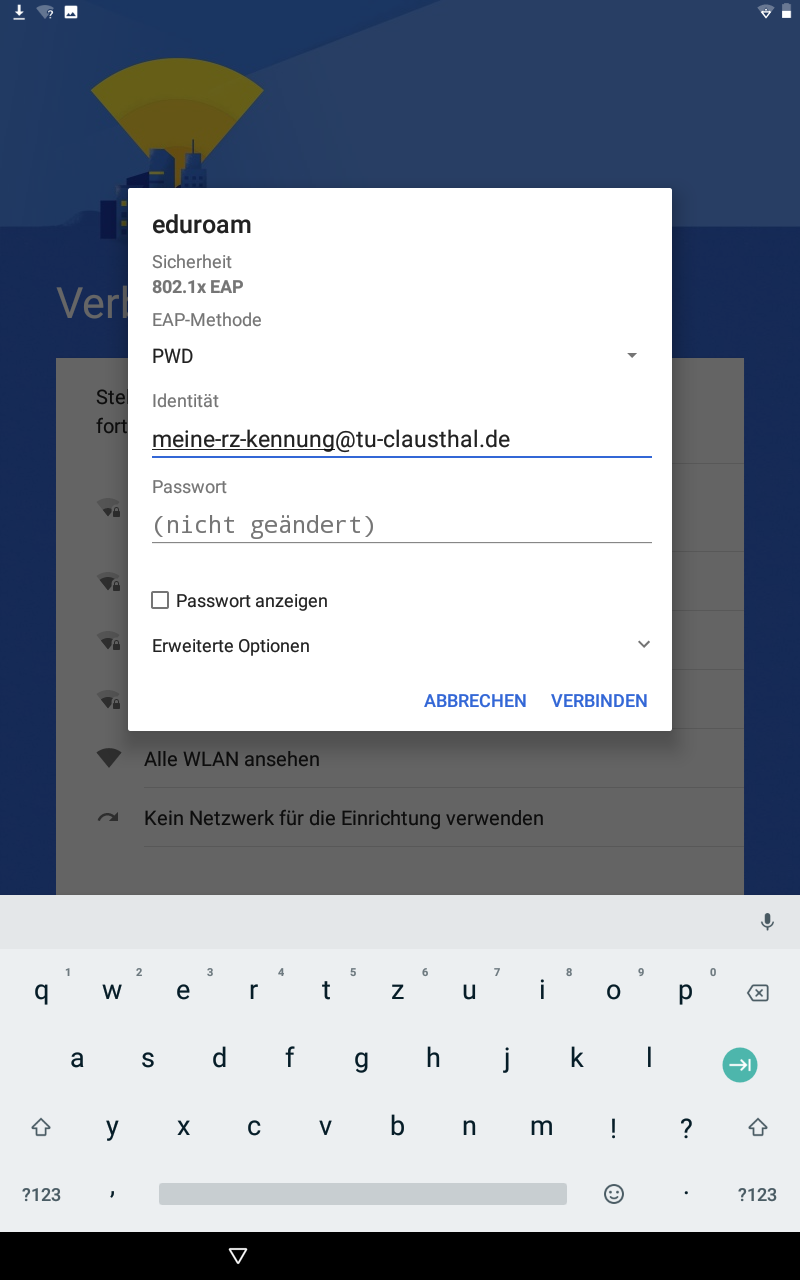
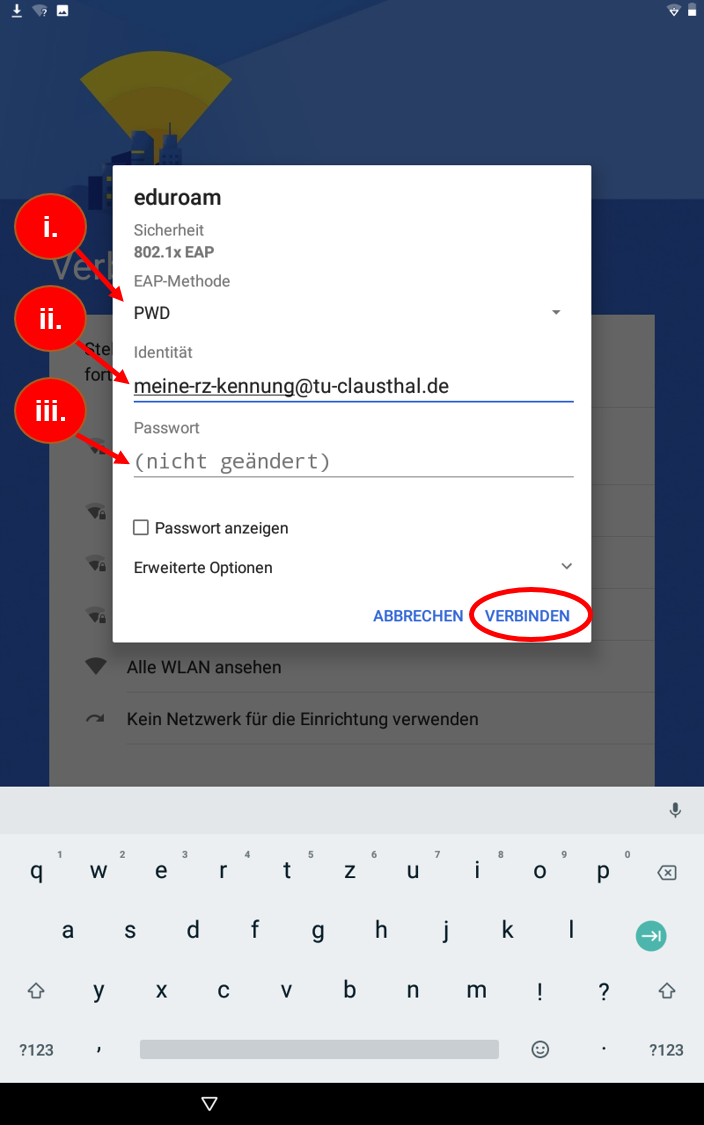
pic modified

diff --git a/VL4/Tablet Einrichtung.md b/VL4/Tablet Einrichtung.md
@@ -151,12 +151,12 @@ __Tablet Einrichtung__
 
 <div class="flex">
 <div><ol start="12">
-<li>Führen Sie jetzt Punkt 3 der Dokuwiki-Anleitung durch, um eduroam für Ihre Kennung zu konfigurieren. </br>Beachten Sie bei der Einstellung:
-  <ul> 
-  <li>Stellen Sie unter <i>EAP-Methode</i> den Wert <tt>PDW</tt> ein.</li>
+<li>Führen Sie jetzt Punkt 3 der Dokuwiki-Anleitung durch, um eduroam für Ihre Kennung zu konfigurieren. </br>Bitte b:
+  <ol> 
+  <li>Wählen Sie unter <i>EAP-Methode</i> den Wert <tt>PDW</tt></li>
   <li>Geben Sie bei <i>Identität</i> ihre RZ-Emailadresse ein, nicht nur den Namen</li>
   <li>Verwenden Sie ihr zuvor generiertes EAP-PWD-Passwort, <strong>NICHT</strong> das Passwort Ihrer RZ-Kennung</li>
-  </ul>
+  </ol>
   </li>
   <li> Drücken Sie auf <i>Verbinden</i>, um sich mit eduroam zu verbinden. </li>
 </ol></div>
